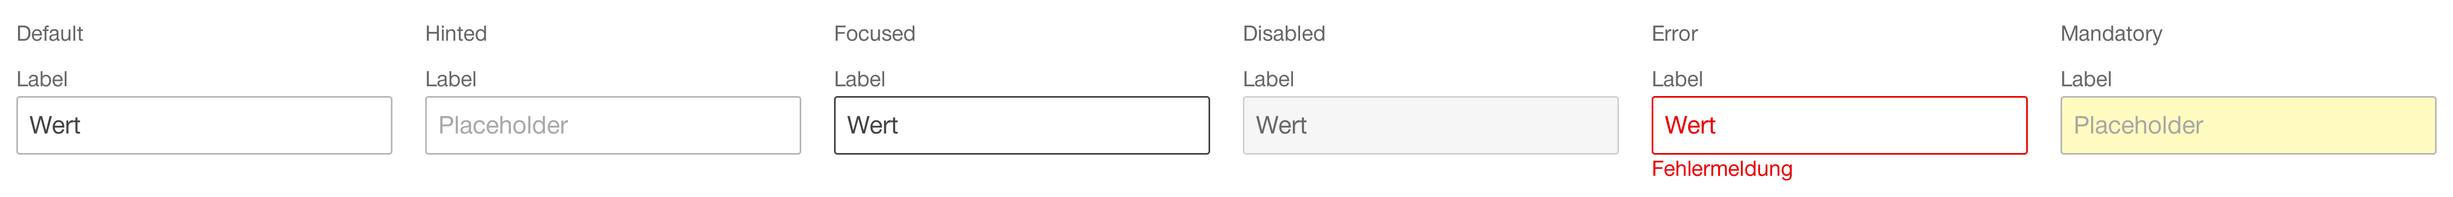
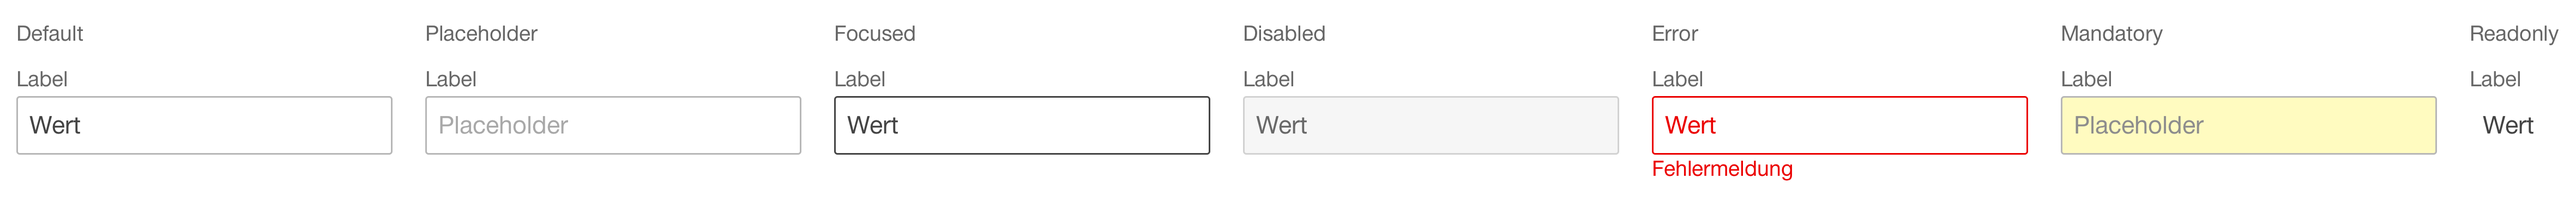
feat: add readonly states for form fields
- Add readonly state for select, textarea, textfield and timefield.
- Rename "Hinted" state to "Placeholder"

diff --git a/documentation/components/datepicker/datepicker-de.md b/documentation/components/datepicker/datepicker-de.md
@@ -27,22 +27,24 @@
 ## 4. Ausprägungen und Zustände 
 Die Komponente hat folgende Zustände:
 * Default
-* Hinted
+* Placeholder
 * Focused
 * Disabled
 * Error
 * Mandatory
+* Readonly
 
 ### 4.1 Standard
 ![Darstellung der Komponente Datumsauswahl in der Standard Ausprägung](https://raw.githubusercontent.com/sbb-design-systems/design-system-webapp-documentation/master/documentation/components/datepicker/images/Dateinput_Default.png 'class: image')
 
 #### Design Spezifikation
 * [Default](https://www.sketch.com/s/58b25e4c-bf9c-4f74-973f-503538fcbea2/a/QqD1rL#Inspector)
-* [Hinted](https://www.sketch.com/s/58b25e4c-bf9c-4f74-973f-503538fcbea2/a/jggqqgm#Inspector)
+* [Placeholder](https://www.sketch.com/s/58b25e4c-bf9c-4f74-973f-503538fcbea2/a/jggqqgm#Inspector)
 * [Focused](https://www.sketch.com/s/58b25e4c-bf9c-4f74-973f-503538fcbea2/a/xz0QdJ#Inspector)
 * [Disabled](https://www.sketch.com/s/58b25e4c-bf9c-4f74-973f-503538fcbea2/a/EAeG9d#Inspector)
 * [Error](https://www.sketch.com/s/58b25e4c-bf9c-4f74-973f-503538fcbea2/a/j14rDm#Inspector)
 * [Mandatory](https://www.sketch.com/s/58b25e4c-bf9c-4f74-973f-503538fcbea2/a/dllqqlL#Inspector)
+* [Readonly](https://www.sketch.com/s/58b25e4c-bf9c-4f74-973f-503538fcbea2/a/jgq7qy0#Inspector)
 
 #### Code Spezifikation
 * [SBB Angular Component Library](https://sbb-angular.app.sbb.ch/business/components/datepicker)
@@ -53,11 +55,12 @@ Die Komponente hat folgende Zustände:
 
 #### Design Spezifikation
 * [Default](https://www.sketch.com/s/58b25e4c-bf9c-4f74-973f-503538fcbea2/a/dAgjvL#Inspector)
-* [Hinted](https://www.sketch.com/s/58b25e4c-bf9c-4f74-973f-503538fcbea2/a/zxxOOxM#Inspector)
+* [Placeholder](https://www.sketch.com/s/58b25e4c-bf9c-4f74-973f-503538fcbea2/a/zxxOOxM#Inspector)
 * [Focused](https://www.sketch.com/s/58b25e4c-bf9c-4f74-973f-503538fcbea2/a/zJyKZM#Inspector)
 * [Disabled](https://www.sketch.com/s/58b25e4c-bf9c-4f74-973f-503538fcbea2/a/ZZVnR3#Inspector)
 * [Error](https://www.sketch.com/s/58b25e4c-bf9c-4f74-973f-503538fcbea2/a/JRAJrk#Inspector)
 * [Mandatory](https://www.sketch.com/s/58b25e4c-bf9c-4f74-973f-503538fcbea2/a/ZOO55O3#Inspector)
+* [Readonly](https://www.sketch.com/s/58b25e4c-bf9c-4f74-973f-503538fcbea2/a/dlq0qEZ#Inspector)
 
 #### Code Spezifikation
 * [SBB Angular Component Library](https://sbb-angular.app.sbb.ch/business/components/datepicker)
@@ -73,11 +76,12 @@ Die Komponente hat folgende Zustände:
 
 #### Design Spezifikation
 * [Default](https://www.sketch.com/s/58b25e4c-bf9c-4f74-973f-503538fcbea2/a/vjRQy4#Inspector)
-* [Hinted](https://www.sketch.com/s/58b25e4c-bf9c-4f74-973f-503538fcbea2/a/47o5vD#Inspector)
+* [Placeholder](https://www.sketch.com/s/58b25e4c-bf9c-4f74-973f-503538fcbea2/a/47o5vD#Inspector)
 * [Focused](https://www.sketch.com/s/58b25e4c-bf9c-4f74-973f-503538fcbea2/a/e0ld4P#Inspector)
 * [Disabled](https://www.sketch.com/s/58b25e4c-bf9c-4f74-973f-503538fcbea2/a/GlodxO#Inspector)
 * [Error](https://www.sketch.com/s/58b25e4c-bf9c-4f74-973f-503538fcbea2/a/OKeR8m#Inspector)
 * [Mandatory](https://www.sketch.com/s/58b25e4c-bf9c-4f74-973f-503538fcbea2/a/Jnnppnk#Inspector)
+* [Readonly](https://www.sketch.com/s/58b25e4c-bf9c-4f74-973f-503538fcbea2/a/zxO7OYW#Inspector)
 
 #### Code Spezifikation
 * [SBB Angular Component Library](https://sbb-angular.app.sbb.ch/business/components/datepicker)

diff --git a/documentation/components/datepicker/datepicker-en.md b/documentation/components/datepicker/datepicker-en.md
@@ -27,22 +27,24 @@
 ## 4. Variants and statuses
 The component has the following statuses:
 * Default
-* Hinted
+* Placeholder
 * Focused
 * Disabled
 * Error
 * Mandatory
+* Readonly
 
 ### 4.1 Standard
 ![Image of the date selection component in the standard variant](https://raw.githubusercontent.com/sbb-design-systems/design-system-webapp-documentation/master/documentation/components/datepicker/images/Dateinput_Default.png 'class: image')
 
 #### Design specification
 * [Default](https://www.sketch.com/s/58b25e4c-bf9c-4f74-973f-503538fcbea2/a/QqD1rL#Inspector)
-* [Hinted](https://www.sketch.com/s/58b25e4c-bf9c-4f74-973f-503538fcbea2/a/jggqqgm#Inspector)
+* [Placeholder](https://www.sketch.com/s/58b25e4c-bf9c-4f74-973f-503538fcbea2/a/jggqqgm#Inspector)
 * [Focused](https://www.sketch.com/s/58b25e4c-bf9c-4f74-973f-503538fcbea2/a/xz0QdJ#Inspector)
 * [Disabled](https://www.sketch.com/s/58b25e4c-bf9c-4f74-973f-503538fcbea2/a/EAeG9d#Inspector)
 * [Error](https://www.sketch.com/s/58b25e4c-bf9c-4f74-973f-503538fcbea2/a/j14rDm#Inspector)
 * [Mandatory](https://www.sketch.com/s/58b25e4c-bf9c-4f74-973f-503538fcbea2/a/dllqqlL#Inspector)
+* [Readonly](https://www.sketch.com/s/58b25e4c-bf9c-4f74-973f-503538fcbea2/a/jgq7qy0#Inspector)
 
 #### Code specification
 * [SBB Angular Component Library](https://sbb-angular.app.sbb.ch/business/components/datepicker)
@@ -54,11 +56,12 @@ The component has the following statuses:
 
 #### Design specification
 * [Default](https://www.sketch.com/s/58b25e4c-bf9c-4f74-973f-503538fcbea2/a/dAgjvL#Inspector)
-* [Hinted](https://www.sketch.com/s/58b25e4c-bf9c-4f74-973f-503538fcbea2/a/zxxOOxM#Inspector)
+* [Placeholder](https://www.sketch.com/s/58b25e4c-bf9c-4f74-973f-503538fcbea2/a/zxxOOxM#Inspector)
 * [Focused](https://www.sketch.com/s/58b25e4c-bf9c-4f74-973f-503538fcbea2/a/zJyKZM#Inspector)
 * [Disabled](https://www.sketch.com/s/58b25e4c-bf9c-4f74-973f-503538fcbea2/a/ZZVnR3#Inspector)
 * [Error](https://www.sketch.com/s/58b25e4c-bf9c-4f74-973f-503538fcbea2/a/JRAJrk#Inspector)
 * [Mandatory](https://www.sketch.com/s/58b25e4c-bf9c-4f74-973f-503538fcbea2/a/ZOO55O3#Inspector)
+* [Readonly](https://www.sketch.com/s/58b25e4c-bf9c-4f74-973f-503538fcbea2/a/dlq0qEZ#Inspector)
 
 #### Code specification
 * [SBB Angular Component Library](https://sbb-angular.app.sbb.ch/business/components/datepicker)
@@ -74,11 +77,12 @@ The component has the following statuses:
 
 #### Design specification
 * [Default](https://www.sketch.com/s/58b25e4c-bf9c-4f74-973f-503538fcbea2/a/vjRQy4#Inspector)
-* [Hinted](https://www.sketch.com/s/58b25e4c-bf9c-4f74-973f-503538fcbea2/a/47o5vD#Inspector)
+* [Placeholder](https://www.sketch.com/s/58b25e4c-bf9c-4f74-973f-503538fcbea2/a/47o5vD#Inspector)
 * [Focused](https://www.sketch.com/s/58b25e4c-bf9c-4f74-973f-503538fcbea2/a/e0ld4P#Inspector)
 * [Disabled](https://www.sketch.com/s/58b25e4c-bf9c-4f74-973f-503538fcbea2/a/GlodxO#Inspector)
 * [Error](https://www.sketch.com/s/58b25e4c-bf9c-4f74-973f-503538fcbea2/a/OKeR8m#Inspector)
 * [Mandatory](https://www.sketch.com/s/58b25e4c-bf9c-4f74-973f-503538fcbea2/a/Jnnppnk#Inspector)
+* [Readonly](https://www.sketch.com/s/58b25e4c-bf9c-4f74-973f-503538fcbea2/a/zxO7OYW#Inspector)
 
 #### Code specification
 * [SBB Angular Component Library](https://sbb-angular.app.sbb.ch/business/components/datepicker)

diff --git a/documentation/components/textfield/textfield-de.md b/documentation/components/textfield/textfield-de.md
@@ -19,22 +19,24 @@
 ## 4. Ausprägungen und Zustände 
 Das Element hat folgende Zustände:
 * Default
-* Hinted
+* Placeholder
 * Focused
 * Disabled
 * Error
 * Mandatory
+* Readonly
 
 ### 4.1 Standard
 ![Darstellung der Komponente Textfeld in der Standard Ausprägung](https://raw.githubusercontent.com/sbb-design-systems/design-system-webapp-documentation/master/documentation/components/textfield/images/Textfield_Default.png 'class: image')
 
 #### Design Spezifikation
 * [Default](https://www.sketch.com/s/58b25e4c-bf9c-4f74-973f-503538fcbea2/a/Pw1oL8#Inspector)
-* [Hinted](https://www.sketch.com/s/58b25e4c-bf9c-4f74-973f-503538fcbea2/a/gk1ZRj#Inspector)
+* [Placeholder](https://www.sketch.com/s/58b25e4c-bf9c-4f74-973f-503538fcbea2/a/gk1ZRj#Inspector)
 * [Focused](https://www.sketch.com/s/58b25e4c-bf9c-4f74-973f-503538fcbea2/a/8jVpv8#Inspector)
 * [Disabled](https://www.sketch.com/s/58b25e4c-bf9c-4f74-973f-503538fcbea2/a/2q7erA#Inspector)
 * [Error](https://www.sketch.com/s/58b25e4c-bf9c-4f74-973f-503538fcbea2/a/MVmMa7#Inspector)
 * [Mandatory](https://www.sketch.com/s/58b25e4c-bf9c-4f74-973f-503538fcbea2/a/5ynozd#Inspector)
+* [Readonly](https://www.sketch.com/s/58b25e4c-bf9c-4f74-973f-503538fcbea2/a/AxL1rj4#Inspector)
 
 #### Code Spezifikation
 * [SBB Angular Component Library](https://sbb-angular.app.sbb.ch/business/components/field)

diff --git a/documentation/components/select/select-de.md b/documentation/components/select/select-de.md
@@ -21,11 +21,12 @@
 ## 4. Ausprägungen und Zustände
 Die Komponente hat folgende Zustände:
 * Default
-* Hinted
+* Placeholder
 * Focused
 * Disabled
 * Error
 * Mandatory
+* Readonly
 * Expanded
 
 ### 4.1 Standard
@@ -33,11 +34,12 @@ Die Komponente hat folgende Zustände:
 
 #### Design Spezifikation
 * [Default](https://www.sketch.com/s/58b25e4c-bf9c-4f74-973f-503538fcbea2/a/5ynoRd#Inspector)
-* [Hinted](https://www.sketch.com/s/58b25e4c-bf9c-4f74-973f-503538fcbea2/a/v88vv84#Inspector)
+* [Placeholder](https://www.sketch.com/s/58b25e4c-bf9c-4f74-973f-503538fcbea2/a/v88vv84#Inspector)
 * [Focused](https://www.sketch.com/s/58b25e4c-bf9c-4f74-973f-503538fcbea2/a/bDLaGj#Inspector)
 * [Disabled](https://www.sketch.com/s/58b25e4c-bf9c-4f74-973f-503538fcbea2/a/Wjdn2k#Inspector)
 * [Error](https://www.sketch.com/s/58b25e4c-bf9c-4f74-973f-503538fcbea2/a/3LoxWm#Inspector)
 * [Mandatory](https://www.sketch.com/s/58b25e4c-bf9c-4f74-973f-503538fcbea2/a/4aabbaD#Inspector)
+* [Readonly](https://www.sketch.com/s/58b25e4c-bf9c-4f74-973f-503538fcbea2/a/DPqYrZW#Inspector)
 * [Expanded](https://www.sketch.com/s/58b25e4c-bf9c-4f74-973f-503538fcbea2/a/r79r5A#Inspector)
 * [Hover](https://www.sketch.com/s/58b25e4c-bf9c-4f74-973f-503538fcbea2/a/nKQDZl#Inspector)
 * [Active](https://www.sketch.com/s/58b25e4c-bf9c-4f74-973f-503538fcbea2/a/QqD1Mb#Inspector)

diff --git a/documentation/components/select/select-en.md b/documentation/components/select/select-en.md
@@ -21,11 +21,12 @@
 ## 4. Variants and statuses
 The component has the following statuses:
 * Default
-* Hinted
+* Placeholder
 * Focused
 * Disabled
 * Error
 * Mandatory
+* Readonly
 * Expanded
 
 ### 4.1 Standard
@@ -33,11 +34,12 @@ The component has the following statuses:
 
 #### Design specification
 * [Default](https://www.sketch.com/s/58b25e4c-bf9c-4f74-973f-503538fcbea2/a/5ynoRd#Inspector)
-* [Hinted](https://www.sketch.com/s/58b25e4c-bf9c-4f74-973f-503538fcbea2/a/v88vv84#Inspector)
+* [Placeholder](https://www.sketch.com/s/58b25e4c-bf9c-4f74-973f-503538fcbea2/a/v88vv84#Inspector)
 * [Focused](https://www.sketch.com/s/58b25e4c-bf9c-4f74-973f-503538fcbea2/a/bDLaGj#Inspector)
 * [Disabled](https://www.sketch.com/s/58b25e4c-bf9c-4f74-973f-503538fcbea2/a/Wjdn2k#Inspector)
 * [Error](https://www.sketch.com/s/58b25e4c-bf9c-4f74-973f-503538fcbea2/a/3LoxWm#Inspector)
 * [Mandatory](https://www.sketch.com/s/58b25e4c-bf9c-4f74-973f-503538fcbea2/a/4aabbaD#Inspector)
+* [Mandatory](https://www.sketch.com/s/58b25e4c-bf9c-4f74-973f-503538fcbea2/a/DPqYrZW#Inspector)
 * [Expanded](https://www.sketch.com/s/58b25e4c-bf9c-4f74-973f-503538fcbea2/a/r79r5A#Inspector)
 * [Hover](https://www.sketch.com/s/58b25e4c-bf9c-4f74-973f-503538fcbea2/a/nKQDZl#Inspector)
 * [Active](https://www.sketch.com/s/58b25e4c-bf9c-4f74-973f-503538fcbea2/a/QqD1Mb#Inspector)

diff --git a/documentation/components/textfield/textfield-en.md b/documentation/components/textfield/textfield-en.md
@@ -19,22 +19,24 @@
 ## 4. Variants and statuses
 The component has the following statuses:
 * Default
-* Hinted
+* Placeholder
 * Focused
 * Disabled
 * Error
 * Mandatory
+* Readonly
 
 ### 4.1 Standard
 ![Image of the text field component in the standard variant](https://raw.githubusercontent.com/sbb-design-systems/design-system-webapp-documentation/master/documentation/components/textfield/images/Textfield_Default.png 'class: image')
 
 #### Design specification
 * [Default](https://www.sketch.com/s/58b25e4c-bf9c-4f74-973f-503538fcbea2/a/Pw1oL8#Inspector)
-* [Hinted](https://www.sketch.com/s/58b25e4c-bf9c-4f74-973f-503538fcbea2/a/gk1ZRj#Inspector)
+* [Placeholder](https://www.sketch.com/s/58b25e4c-bf9c-4f74-973f-503538fcbea2/a/gk1ZRj#Inspector)
 * [Focused](https://www.sketch.com/s/58b25e4c-bf9c-4f74-973f-503538fcbea2/a/8jVpv8#Inspector)
 * [Disabled](https://www.sketch.com/s/58b25e4c-bf9c-4f74-973f-503538fcbea2/a/2q7erA#Inspector)
 * [Error](https://www.sketch.com/s/58b25e4c-bf9c-4f74-973f-503538fcbea2/a/MVmMa7#Inspector)
 * [Mandatory](https://www.sketch.com/s/58b25e4c-bf9c-4f74-973f-503538fcbea2/a/5ynozd#Inspector)
+* [Readonly](https://www.sketch.com/s/58b25e4c-bf9c-4f74-973f-503538fcbea2/a/AxL1rj4#Inspector)
 
 #### Code specification
 * [SBB Angular Component Library](https://sbb-angular.app.sbb.ch/business/components/field)

diff --git a/documentation/components/timefield/timefield-de.md b/documentation/components/timefield/timefield-de.md
@@ -14,20 +14,22 @@
 ## 4. Ausprägungen und Zustände 
 Die Komponente hat folgende Zustände:
 * Default
-* Hinted
+* Placeholder
 * Focused
 * Disabled
 * Mandatory
+* Readonly
 
 ### 4.1 Standard
 ![Darstellung der Komponente Zeiteingabe](https://raw.githubusercontent.com/sbb-design-systems/design-system-webapp-documentation/master/documentation/components/timefield/images/Timefield_Default.png 'class: image')
 
 #### Design Spezifikation
 * [Default](https://www.sketch.com/s/58b25e4c-bf9c-4f74-973f-503538fcbea2/a/nKQDql#Inspector)
-* [Hinted](https://www.sketch.com/s/58b25e4c-bf9c-4f74-973f-503538fcbea2/a/QqD1pb#Inspector)
+* [Placeholder](https://www.sketch.com/s/58b25e4c-bf9c-4f74-973f-503538fcbea2/a/QqD1pb#Inspector)
 * [Focused](https://www.sketch.com/s/58b25e4c-bf9c-4f74-973f-503538fcbea2/a/xz0Qe0#Inspector)
 * [Disabled](https://www.sketch.com/s/58b25e4c-bf9c-4f74-973f-503538fcbea2/a/EAeGYq#Inspector)
 * [Mandatory](https://www.sketch.com/s/58b25e4c-bf9c-4f74-973f-503538fcbea2/a/eKKqqKP#Inspector)
+* [Readonly](https://www.sketch.com/s/58b25e4c-bf9c-4f74-973f-503538fcbea2/a/wL4MJnD#Inspector)
 
 #### Code Spezifikation
 * [SBB Angular Component Library](https://sbb-angular.app.sbb.ch/business/components/time-input)

diff --git a/documentation/components/timefield/timefield-en.md b/documentation/components/timefield/timefield-en.md
@@ -14,20 +14,22 @@
 ## 4. Variants and statuses
 The component has the following statuses:
 * Default
-* Hinted
+* Placeholder
 * Focused
 * Disabled
 * Mandatory
+* Readonly
 
 ### 4.1 Standard
 ![Image of the time entry component](https://raw.githubusercontent.com/sbb-design-systems/design-system-webapp-documentation/master/documentation/components/timefield/images/Timefield_Default.png 'class: image')
 
 #### Design specification
 * [Default](https://www.sketch.com/s/58b25e4c-bf9c-4f74-973f-503538fcbea2/a/nKQDql#Inspector)
-* [Hinted](https://www.sketch.com/s/58b25e4c-bf9c-4f74-973f-503538fcbea2/a/QqD1pb#Inspector)
+* [Placeholder](https://www.sketch.com/s/58b25e4c-bf9c-4f74-973f-503538fcbea2/a/QqD1pb#Inspector)
 * [Focused](https://www.sketch.com/s/58b25e4c-bf9c-4f74-973f-503538fcbea2/a/xz0Qe0#Inspector)
 * [Disabled](https://www.sketch.com/s/58b25e4c-bf9c-4f74-973f-503538fcbea2/a/EAeGYq#Inspector)
 * [Mandatory](https://www.sketch.com/s/58b25e4c-bf9c-4f74-973f-503538fcbea2/a/eKKqqKP#Inspector)
+* [Readonly](https://www.sketch.com/s/58b25e4c-bf9c-4f74-973f-503538fcbea2/a/wL4MJnD#Inspector)
 
 #### Code specification
 * [SBB Angular Component Library](https://sbb-angular.app.sbb.ch/business/components/time-input)

diff --git a/documentation/components/textarea/textarea-en.md b/documentation/components/textarea/textarea-en.md
@@ -21,6 +21,7 @@ The component has the following statuses:
 * Disabled
 * Error
 * Mandatory
+* Readonly
 
 ### 4.1 Standard
 ![Image of the text area component](https://raw.githubusercontent.com/sbb-design-systems/design-system-webapp-documentation/master/documentation/components/textarea/images/Textarea_Default.png 'class: image')
@@ -31,6 +32,7 @@ The component has the following statuses:
 * [Disabled](https://www.sketch.com/s/58b25e4c-bf9c-4f74-973f-503538fcbea2/a/Lp4nD3#Inspector)
 * [Error](https://www.sketch.com/s/58b25e4c-bf9c-4f74-973f-503538fcbea2/a/7P1aJP#Inspector)
 * [Mandatory](https://www.sketch.com/s/58b25e4c-bf9c-4f74-973f-503538fcbea2/a/dlwDKn9#Inspector)
+* [Readonly](https://www.sketch.com/s/58b25e4c-bf9c-4f74-973f-503538fcbea2/a/agWeyQZ#Inspector)
 
 #### Code specification
 * [SBB Angular Component Library](https://sbb-angular.app.sbb.ch/business/components/textarea)

diff --git a/documentation/components/textarea/textarea-de.md b/documentation/components/textarea/textarea-de.md
@@ -21,6 +21,7 @@ Die Komponente hat folgende Zustände:
 * Disabled
 * Error
 * Mandatory
+* Readonly
 
 ### 4.1 Standard
 ![Darstellung der Komponente Textarea](https://raw.githubusercontent.com/sbb-design-systems/design-system-webapp-documentation/master/documentation/components/textarea/images/Textarea_Default.png 'class: image')
@@ -31,6 +32,7 @@ Die Komponente hat folgende Zustände:
 * [Disabled](https://www.sketch.com/s/58b25e4c-bf9c-4f74-973f-503538fcbea2/a/Lp4nD3#Inspector)
 * [Error](https://www.sketch.com/s/58b25e4c-bf9c-4f74-973f-503538fcbea2/a/7P1aJP#Inspector)
 * [Mandatory](https://www.sketch.com/s/58b25e4c-bf9c-4f74-973f-503538fcbea2/a/dlwDKn9#Inspector)
+* [Readonly](https://www.sketch.com/s/58b25e4c-bf9c-4f74-973f-503538fcbea2/a/agWeyQZ#Inspector)
 
 #### Code Spezifikation
 * [SBB Angular Component Library](https://sbb-angular.app.sbb.ch/business/components/textarea)
